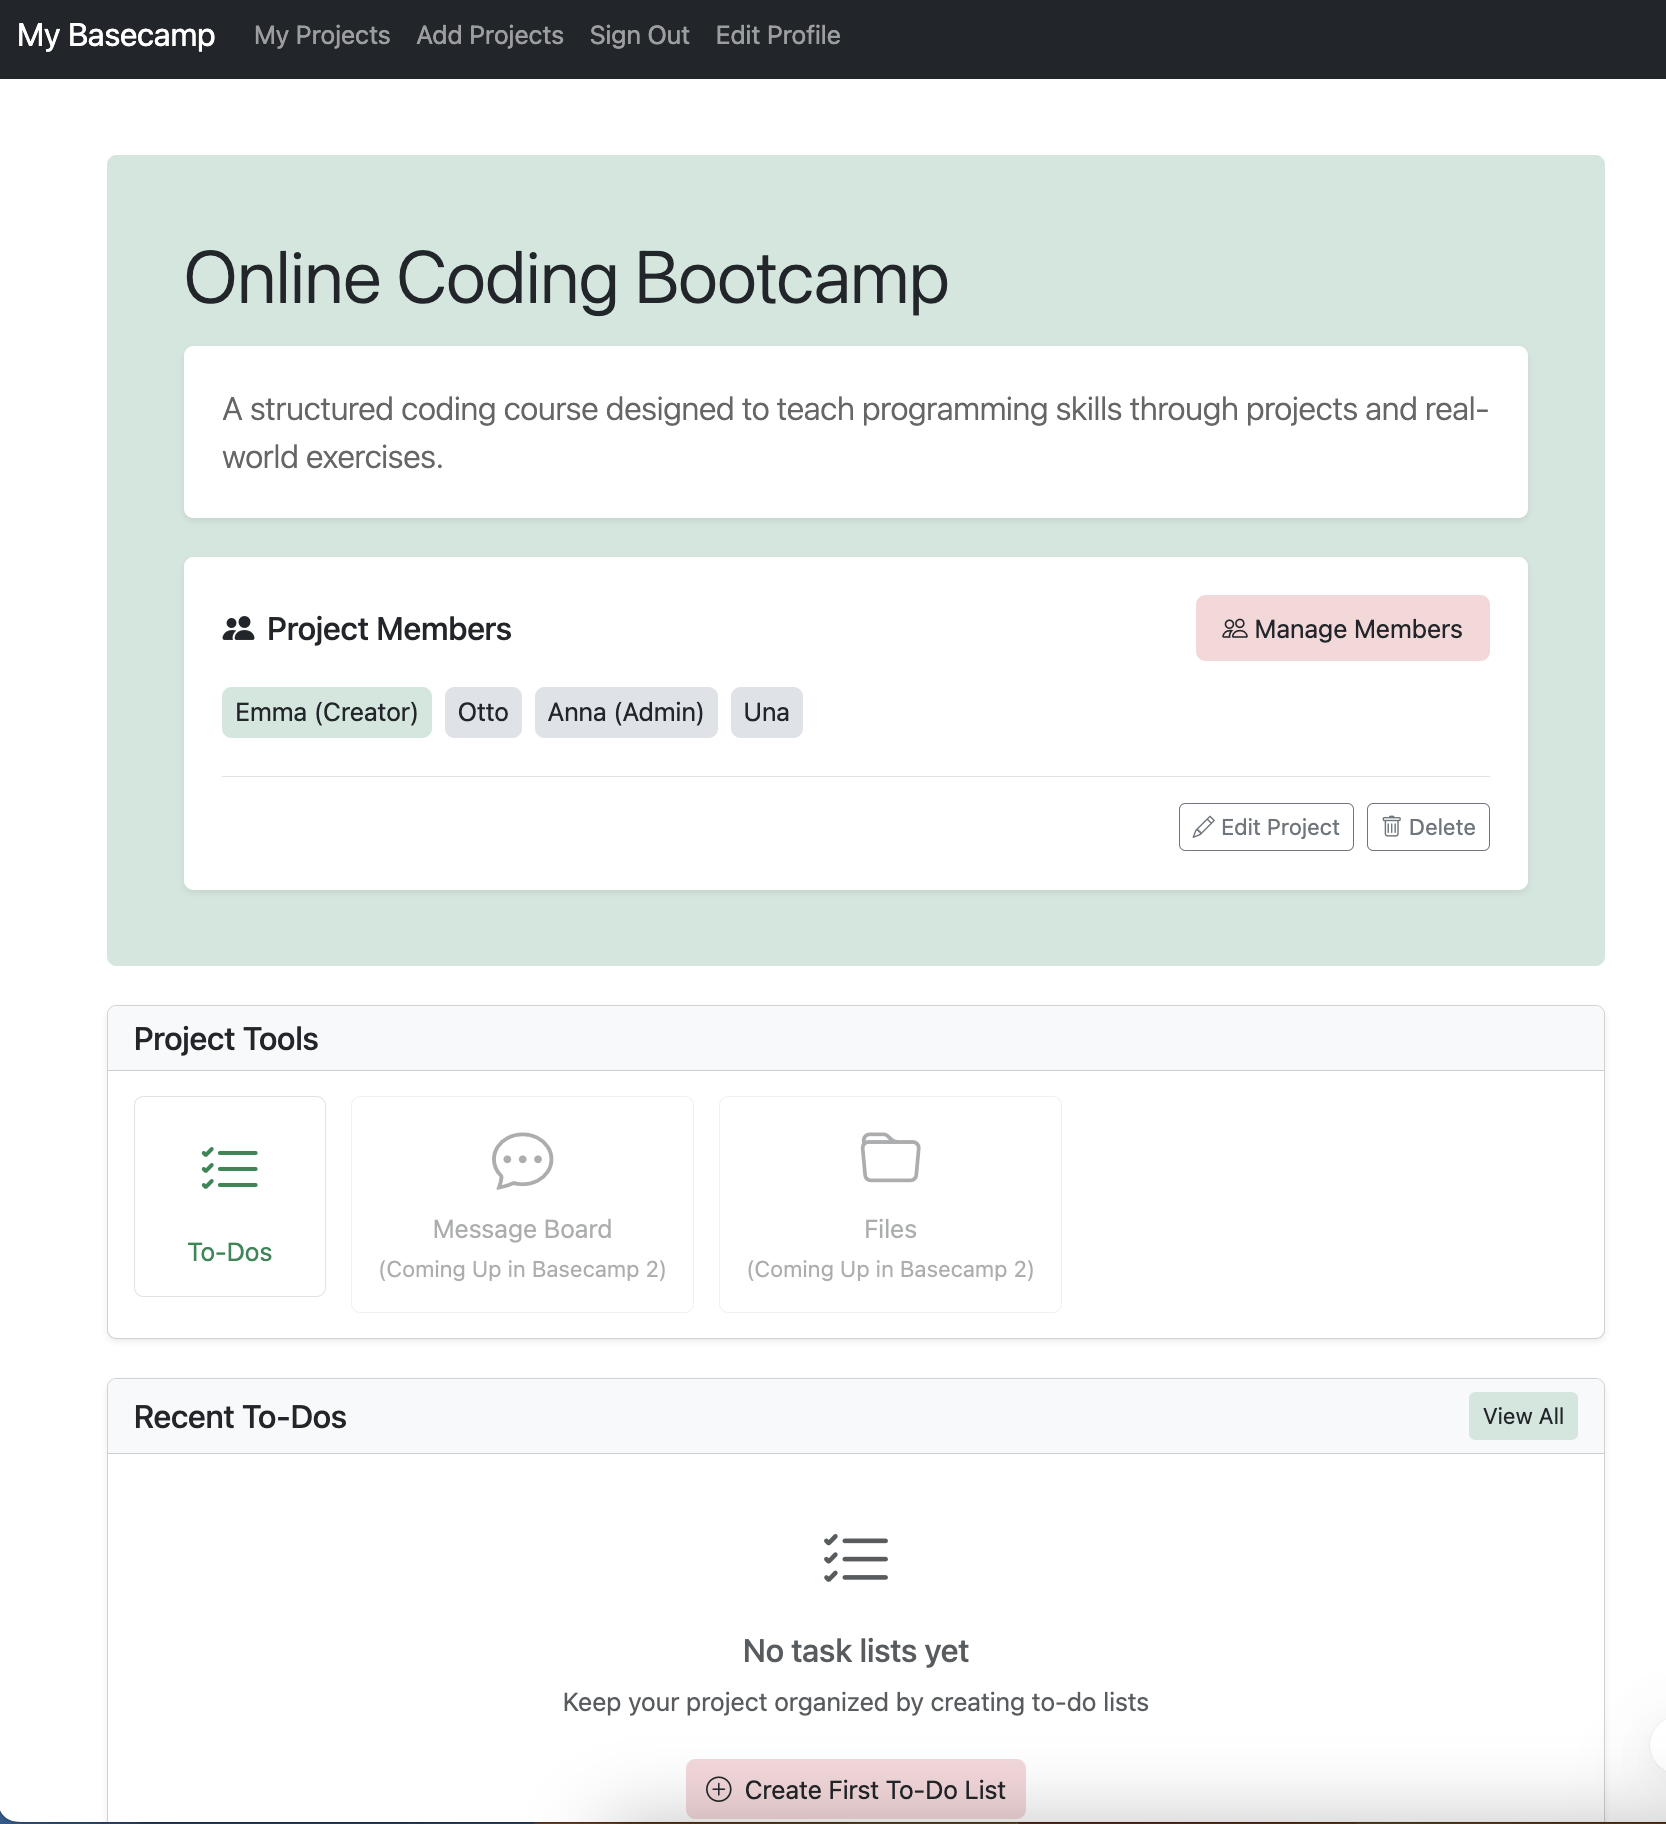
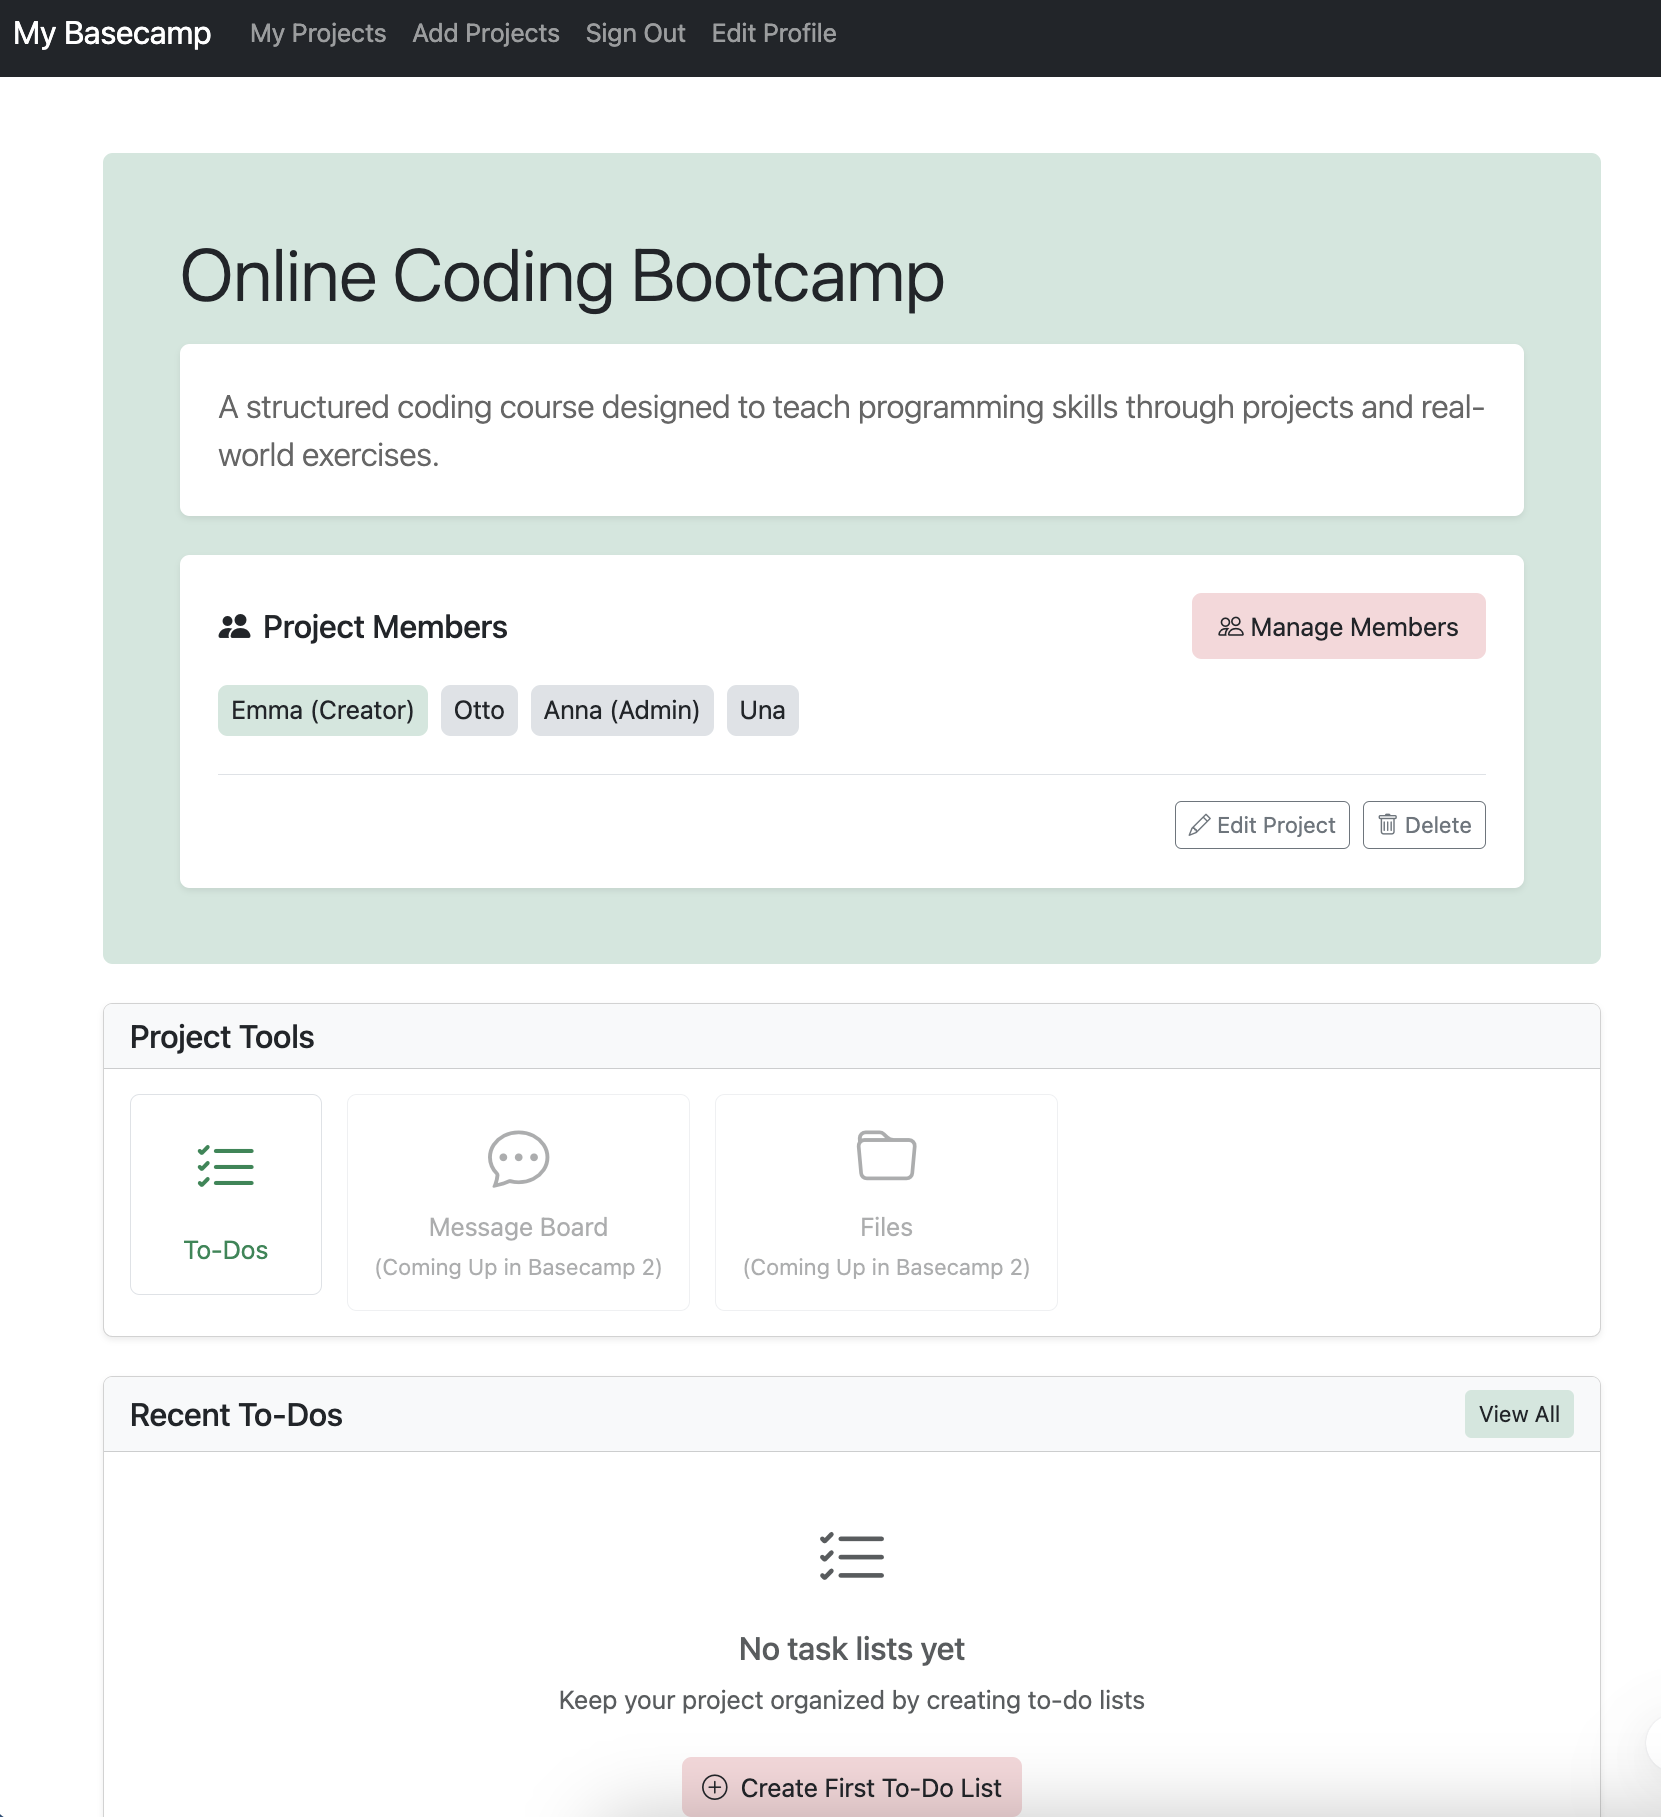
Update README

diff --git a/README.md b/README.md
@@ -11,7 +11,7 @@ Building a lightweight project management tool inspired by Basecamp. The challen
 ## Screenshots
 
 <p>
-  <img src="/app/assets/images/scr1.png" width="300" style="display: inline-block; margin-right: 10px;">
+  <img src="/app/assets/images/scr1.png" width="300" style="display: inline-block; margin-right: 50px;">
   <img src="/app/assets/images/scr2.png" width="300" style="display: inline-block;">
 </p>
 
